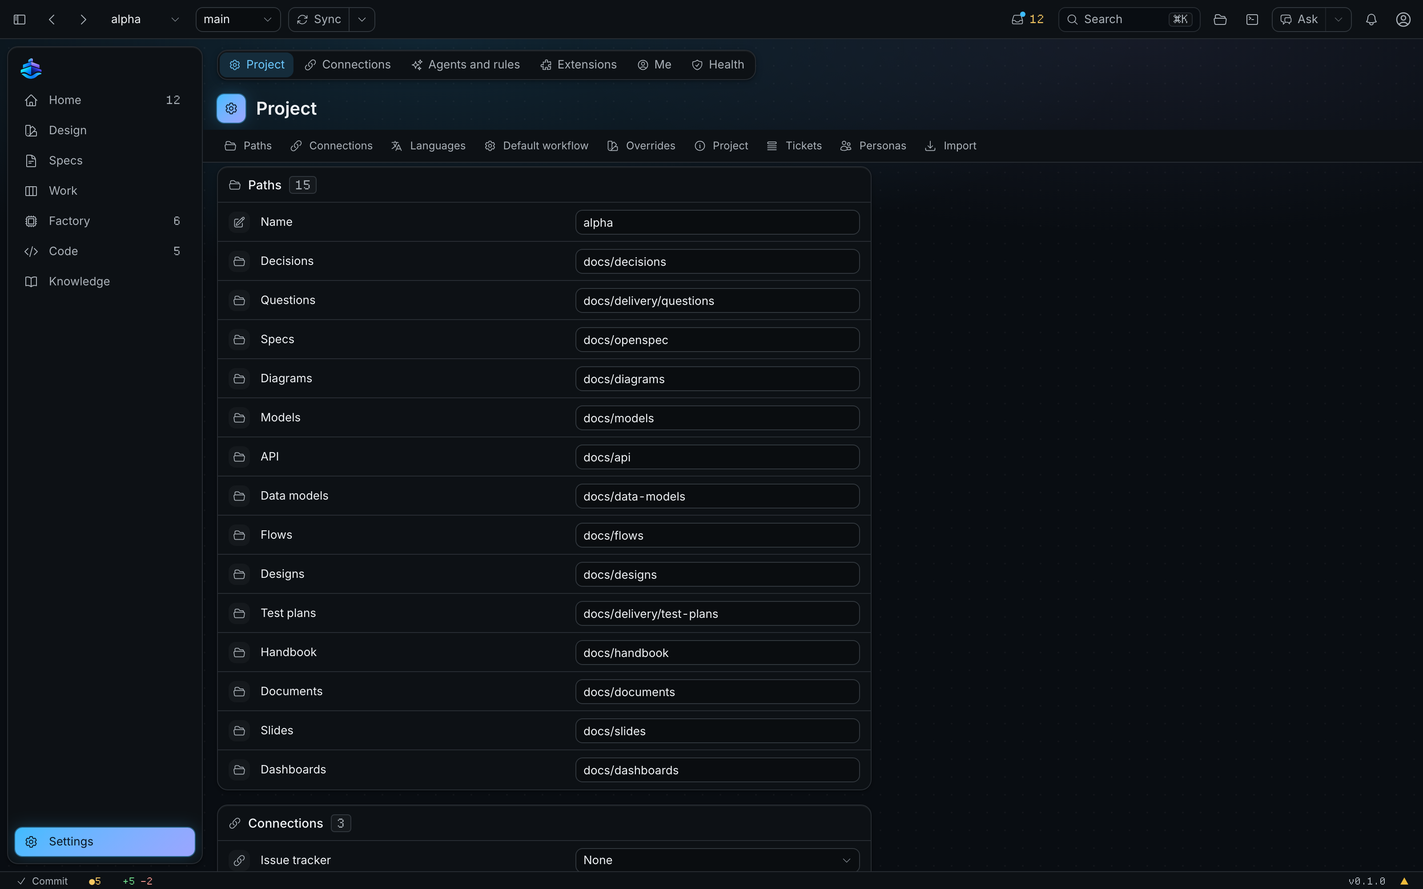
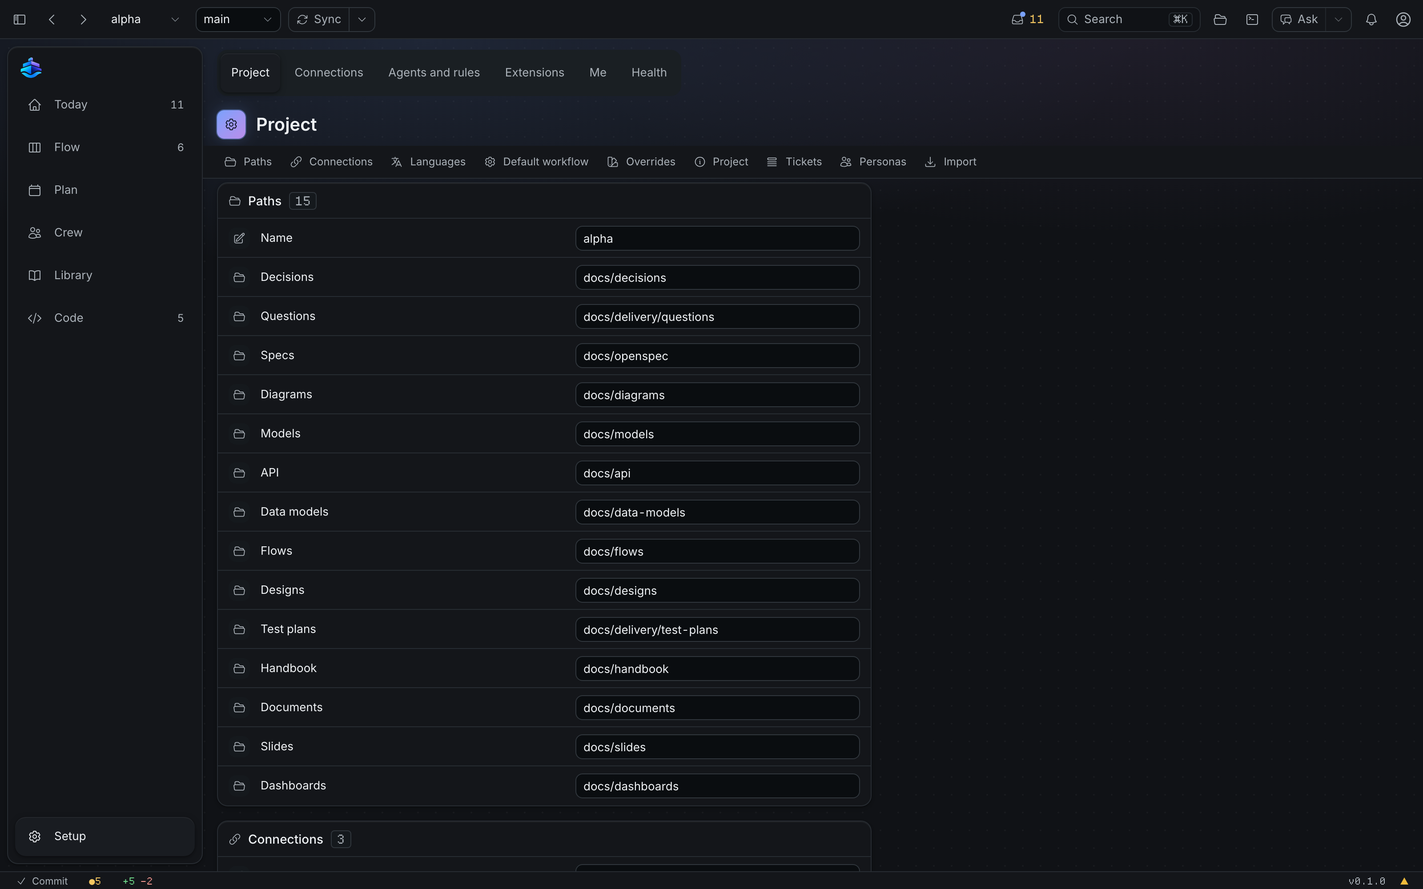
docs(redesign): record wave 1 of the app redesign
Tick T004 to T009, add the changelog lines in English and French, name the
six places in the guide (four languages) and in the architecture model, add
the place menu to the screens registry and regenerate the screenshots with
the new shell. The progress file says what is open and how wave 2 starts.

diff --git a/scripts/screenshots.ts b/scripts/screenshots.ts
@@ -9,9 +9,26 @@ const only = process.argv.slice(2);
 
 const tabs = (p: Page) => p.getByRole("navigation", { name: "Tabs" });
 const side = (p: Page) => p.getByRole("navigation", { name: "Sidebar" });
-const open = async (p: Page, space: string, tab?: string) => {
-	await side(p).getByRole("link", { name: space }).click();
-	if (tab) await tabs(p).getByRole("link", { name: tab, exact: true }).click();
+// The place of each section that a scene opens (adr:0023).
+const PLACE: Record<string, string> = {
+	Projects: "Today",
+	Runs: "Flow",
+	Questions: "Library",
+	Architecture: "Library",
+	Learn: "Library",
+	Plan: "Plan",
+	Team: "Crew",
+	Workflows: "Crew",
+	"Agents map": "Crew",
+	Usage: "Crew",
+	"Pull requests": "Code",
+	Connections: "Setup",
+	Project: "Setup",
+	Me: "Setup",
+};
+const open = async (p: Page, tab: string) => {
+	await side(p).getByRole("link", { name: PLACE[tab] }).click();
+	await tabs(p).getByRole("link", { name: tab, exact: true }).click();
 };
 const openProject = async (p: Page) => {
 	await p.goto("/home/today");
@@ -22,7 +39,7 @@ const openProject = async (p: Page) => {
 
 // Pull request 142 of the mock has comments, two threads and one file of three lines.
 const openPull = async (p: Page, tab?: string) => {
-	await open(p, "Code", "Pull requests");
+	await open(p, "Pull requests");
 	await p.getByRole("link", { name: /refuse an empty token/ }).click();
 	if (tab) await p.getByRole("tab", { name: new RegExp(`^${tab}`) }).click();
 };
@@ -45,22 +62,22 @@ type Scene = { name: string; light?: boolean; run: (p: Page) => Promise<void> };
 const scenes: Scene[] = [
 	{ name: "home", run: async () => {} },
 	{ name: "home-light", light: true, run: async () => {} },
-	{ name: "design", run: (p) => open(p, "Design", "Architecture") },
-	{ name: "specs", run: (p) => open(p, "Specs", "Questions") },
-	{ name: "work", run: (p) => open(p, "Work", "Plan") },
+	{ name: "design", run: (p) => open(p, "Architecture") },
+	{ name: "specs", run: (p) => open(p, "Questions") },
+	{ name: "work", run: (p) => open(p, "Plan") },
 	{
 		name: "team",
 		run: async (p) => {
-			await open(p, "Work", "Team");
+			await open(p, "Team");
 			await p.getByRole("table").first().waitFor();
 		},
 	},
-	{ name: "factory", run: (p) => open(p, "Factory", "Runs") },
-	{ name: "agents", run: (p) => open(p, "Factory", "Agents map") },
+	{ name: "factory", run: (p) => open(p, "Runs") },
+	{ name: "agents", run: (p) => open(p, "Agents map") },
 	{
 		name: "workflows",
 		run: async (p) => {
-			await open(p, "Factory", "Workflows");
+			await open(p, "Workflows");
 			await p.getByRole("button", { name: /^feature/i }).click();
 			await p.getByRole("textbox", { name: "Step id" }).first().waitFor();
 		},
@@ -68,7 +85,7 @@ const scenes: Scene[] = [
 	{
 		name: "runs-history",
 		run: async (p) => {
-			await open(p, "Factory", "Runs");
+			await open(p, "Runs");
 			await p.getByRole("button", { name: "History", exact: true }).click();
 			await p.getByRole("table", { name: "History" }).waitFor();
 		},
@@ -76,14 +93,14 @@ const scenes: Scene[] = [
 	{
 		name: "usage",
 		run: async (p) => {
-			await open(p, "Factory", "Usage");
+			await open(p, "Usage");
 			await p.getByRole("region", { name: "Budgets" }).waitFor();
 		},
 	},
 	{
 		name: "run",
 		run: async (p) => {
-			await open(p, "Factory", "Runs");
+			await open(p, "Runs");
 			await p
 				.getByRole("region", { name: "Working" })
 				.getByRole("button", { name: /ACME-2/ })
@@ -95,7 +112,7 @@ const scenes: Scene[] = [
 	{
 		name: "pulls",
 		run: async (p) => {
-			await open(p, "Code", "Pull requests");
+			await open(p, "Pull requests");
 			await p.getByRole("link", { name: /refuse an empty token/ }).waitFor();
 		},
 	},
@@ -125,13 +142,13 @@ const scenes: Scene[] = [
 			await p.getByRole("dialog", { name: "Submit review" }).waitFor();
 		},
 	},
-	{ name: "knowledge", run: (p) => open(p, "Knowledge", "Learn") },
-	{ name: "settings-connections", run: (p) => open(p, "Settings", "Connections") },
-	{ name: "settings-project", run: (p) => open(p, "Settings", "Project") },
+	{ name: "knowledge", run: (p) => open(p, "Learn") },
+	{ name: "settings-connections", run: (p) => open(p, "Connections") },
+	{ name: "settings-project", run: (p) => open(p, "Project") },
 	{
 		name: "themes",
 		run: async (p) => {
-			await open(p, "Settings", "Me");
+			await open(p, "Me");
 			await p.getByRole("combobox", { name: "Theme" }).click();
 			await p.getByRole("option", { name: "OLED", exact: true }).click();
 		},
@@ -148,7 +165,7 @@ const scenes: Scene[] = [
 	{
 		name: "new-project",
 		run: async (p) => {
-			await open(p, "Home", "Projects");
+			await open(p, "Projects");
 			await p.getByRole("button", { name: "New project" }).click();
 			const d = p.getByRole("dialog", { name: "New project" });
 			await d.getByRole("textbox", { name: "Name" }).fill("Acme Web");
@@ -172,6 +189,13 @@ for (const s of scenes) {
 	});
 	const page = await ctx.newPage();
 	await openProject(page);
+	if (!s.light) {
+		// Light is the default theme: a dark scene picks Dark from the palette.
+		await page.keyboard.press("ControlOrMeta+k");
+		await page.getByRole("dialog").getByRole("combobox").fill("Theme: Dark");
+		await page.keyboard.press("Enter");
+		await page.locator('html[data-theme="dark"]').waitFor();
+	}
 	await s.run(page);
 	await page.mouse.move(800, 990); // no hover state
 	await page.waitForTimeout(800); // fades and charts settle

diff --git a/.agents/progress/app-redesign.md b/.agents/progress/app-redesign.md
@@ -1,0 +1,46 @@
+# Progress: update-app-redesign
+
+Change: `docs/openspec/changes/update-app-redesign/`. Decision: `adr:0023`. One session per wave.
+
+## Wave 1, foundation (2026-11-16): T004 to T009 done
+
+Branch `feature/app-redesign-wave-1-d9708f`, local commits only. Not pushed, no pull request.
+
+What the wave did:
+
+- T005, T006: `crates/shipyard-core/src/feature.rs` has `stage_of` (the sixteen run states to a stage and a mark) and `features` (ticket, spec change, newest run and its pull request as one `FlowFeature`). The command `features_list` is in `crates/shipyard-app/src/factory.rs`. The mock is `src/lib/ipc/mock-features.ts`. No page reads the command yet.
+- T007: tokens of the new look in `src/ui/tokens/tokens.css`: one blue accent, the tokens `--attention*` (only `attention-card.tsx` can use them, a test checks it), `--control-h` 44 px with the class `min-h-control`. Light is the theme when no theme is stored. A stored theme stays, System included.
+- T008: `src/ui/molecules/`: `place-menu`, `ask-bar`, `stage-line`, `attention-card`, `section-switch`, `door`. The value row is `SettingsRow`. Each has a gallery entry.
+- T009: `src/features/shell/places.ts` holds the seven places. Each section is one old view `space/tab`, and its slug is the old tab id. The new addresses are `/<place>/<section>`, `/flow/runs/$runId` and `/code/pull-requests/$pullId`. Each old address stays registered in `src/app/router.tsx` and redirects with its search and its hash. A bare old space opens its own first view (`/factory` opens `/flow/runs`). The sidebar draws the place menu, one section switch replaces the tab bar, and the native Go menu holds the seven places.
+- T004: `src/features/shell/inventory.test.tsx` loads each old address and checks that a real page opens and that each action id runs.
+
+Decisions of this wave (change them in one place):
+
+- Stage map: Queued, Claimed, Planning and PlanReview are Spec. Working and SelfReview are Build. PROpen and ChangesRequested are Review. Merged and Done are Ready. Failed and Cancelled are Build with the mark stopped. A side state takes the stage of its return state. The map is one `match` in `feature.rs` and `SPLIT` in `mock-features.ts`.
+- An older run of a ticket and its pull request do not show as a feature.
+- The names of the places in French, German and Spanish are the defaults of `q:Q-172`.
+- The old action ids `go-<space>` stay, hidden from the palette. A stored shortcut for one still runs it.
+
+Checks, run by the lead on the final tree:
+
+- Passed: `cargo fmt --all --check`, `cargo clippy --workspace --all-targets -- -D warnings`, `cargo test --workspace --no-fail-fast` (app library 504), `pnpm typecheck`, `pnpm lint`, `pnpm test` (248 files, 2014 tests), `pnpm ipc:check`, `openspec validate update-app-redesign --strict`, `CI=1 npx playwright test` (130), `pnpm test:personas`.
+- Review in a fresh context: 2 major and 4 minor findings, all fixed. The lead also found that the dark accessibility run scanned Light after the new default: `e2e/first-run.ts` now picks Dark from the palette.
+
+Open after Wave 1:
+
+- The typed links in the feature folders still name the old addresses (about 850 uses). They work through the redirect. Each wave rewrites the links of its pages.
+- The Button, Input and IconButton atoms are 28 px high. A page of the new look must pass `min-h-control` until the atoms get a 44 px size (REQ-026).
+- `FlowFeature` has no field for who works on the feature (REQ-011). Add it in Wave 3.
+- The `wi:` ref of a proposal is read only in the Jira key form. A ticket of another issue tracker links to its change through the mirror only.
+- `role-panels.tsx` and `onboarding/pictures.tsx` still show the names of the old spaces. `orderedSpaces`, `visibleTabs` and `barTabs` in `spaces.ts` serve only the redirects and the tests: T028 and T030 remove them.
+- Home / Projects is a section of Today for now. The plan puts it behind the project name (T027).
+- The guide has the new menu in `start.md` only (four languages). The pages by old space are for T032.
+- `q:Q-172` is open: the owner can change the French, German and Spanish names in `src/lib/i18n/` (`ui.place`).
+- No old page was removed: Wave 1 replaced the shell only (the tab bar file is gone).
+
+## How Wave 2 starts (T010 to T012, Today and Ask)
+
+1. Read this file, `tasks.md`, `plan.md`, REQ-004, REQ-005, REQ-007, REQ-008 and REQ-009 of the spec, and the Today and Ask screens in `docs/designs/redesign/`.
+2. Build Today in `src/features/home/` with `AttentionCard`, and the Ask bar in the top bar with `AskBar`. The section `today/today` already hosts the page of today.
+3. Keep `inventory.test.tsx` green. Remove an old page only when the wave replaced it.
+4. End with the review in a fresh context, the screens registry, the screenshots (`node scripts/screenshots.ts`), the guide, both changelogs and one entry here.

diff --git a/docs/guide/de/start.md b/docs/guide/de/start.md
@@ -4,8 +4,8 @@ Shipyard hilft einem Team, ein Softwareprojekt auszuliefern: den Entwurf, die Sp
 
 ## Das Fenster
 
-- Die linke Leiste enthält die Bereiche: Start, Entwurf, Spezifikationen, Arbeit, Fabrik, Code, Wissen und Einstellungen.
-- Die Tabs eines Bereichs stehen oben auf der Seite. Jeder Tab hat ein Symbol und seinen Namen.
+- Die linke Leiste enthält die sechs Orte und Einrichtung: Heute, Ablauf, Plan, Team, Bibliothek, Code und Einrichtung. Jede frühere Seite liegt in einem Ort, und ihre alte Adresse öffnet sie weiterhin.
+- Die Abschnitte eines Ortes stehen oben auf der Seite, in einem Umschalter.
 - Der Inspektor rechts zeigt das Element, das Sie auswählen.
 - Die Statusleiste unten zeigt das Projekt, den Sync-Status und die Commit-Steuerung, mit der Zahl der geänderten Dateien neben Commit.
 - Die obere Leiste enthält Zurück und Vorwärts, Synchronisieren, Aktivität, die Suche, die Schaltflächen Dateien und Terminal, Fragen, die Benachrichtigungen und das Kontomenü.
@@ -64,7 +64,7 @@ In Start, dann Heute, nennt eine einzige Liste Erste Schritte die nächsten Schr
 - Drücken Sie Ctrl+K (Cmd+K auf einem Mac), um die Palette zu öffnen. Tippen Sie den Namen einer Seite, eines Elements oder einer Aktion.
 - Tippen Sie in der Palette ein paar Wörter, um den Text Ihrer Dokumente, Entscheidungen, Spezifikationen, Fragen, Tickets und Entwürfe zu durchsuchen. Groß- und Kleinschreibung und Akzente spielen keine Rolle („decision“ findet „décision“), jedes Wort muss passen, und das letzte Wort darf ein Anfang sein. Die Ergebnisse sind nach Art gruppiert, zeigen einen kurzen Auszug mit markierten Wörtern und stellen eine Seite, die viele Elemente zitieren, an die erste Stelle. Wählen Sie Den Assistenten fragen, um diese Elemente als Kontext in das Nachrichtenfeld des Assistenten zu legen. Nichts wird gesendet, bevor Sie senden. Das Dokument, das Sie aus einem Ergebnis öffnen, markiert die Wörter.
 - Die Listen in Entwurf und Wissen haben ein Feld Suchen, das die Liste mit derselben Suche filtert.
-- Drücken Sie Ctrl+1 bis Ctrl+8, um zu einem Bereich zu gehen.
+- Drücken Sie Ctrl+1 bis Ctrl+7, um zu einem Ort zu gehen.
 - Öffnen Sie die Palette und wählen Sie Anleitung zu dieser Seite öffnen, um die Hilfe der Seite zu lesen, die Sie sehen.
 - Drücken Sie Ctrl+[ und Ctrl+] (Cmd auf einem Mac), oder klicken Sie in der oberen Leiste auf Zurück und Vorwärts, um zwischen den geöffneten Ansichten zu wechseln.
 - Drücken Sie F1, oder wählen Sie Anleitung im Kontomenü, um die Hilfe der Seite zu lesen, die Sie sehen.

diff --git a/docs/guide/fr/start.md b/docs/guide/fr/start.md
@@ -4,8 +4,8 @@ Shipyard aide une équipe à livrer un projet logiciel : la conception, les spé
 
 ## La fenêtre
 
-- La barre de gauche contient les espaces : Accueil, Conception, Spécifications, Travail, Usine, Code, Connaissances et Réglages.
-- Les onglets d'un espace sont en haut de la page. Chaque onglet a une icône et son nom.
+- La barre de gauche contient les six lieux et Configuration : Aujourd'hui, Flux, Plan, Équipe, Bibliothèque, Code et Configuration. Chaque page d'avant se trouve dans un lieu, et son ancienne adresse l'ouvre toujours.
+- Les sections d'un lieu sont en haut de la page, dans un seul sélecteur.
 - L'inspecteur à droite montre l'élément que vous sélectionnez.
 - La barre d'état en bas montre le projet, l'état de la synchronisation et la commande de commit, avec le nombre de fichiers modifiés à côté de Commit.
 - La barre du haut contient Précédent et Suivant, Synchroniser, Activité, la recherche, les boutons Fichiers et Terminal, Demander, les notifications et le menu du compte.
@@ -77,7 +77,7 @@ Créer fait le dépôt, écrit les fichiers, fait le premier commit et ouvre le 
 - Appuyez sur Ctrl+K (Cmd+K sur Mac) pour ouvrir la palette. Tapez le nom d'une page, d'un élément ou d'une action.
 - Dans la palette, tapez quelques mots pour chercher dans le texte de vos documents, décisions, spécifications, questions, tickets et maquettes. Les majuscules et les accents ne comptent pas (« decision » trouve « décision »), chaque mot doit correspondre, et le dernier mot peut être un début. Les résultats se groupent par type, montrent un court extrait avec les mots marqués, et placent en premier une page que beaucoup d'éléments citent. Choisissez Demander à l'assistant pour mettre ces éléments comme contexte dans la zone de message de l'assistant. Rien n'est envoyé avant votre envoi. Le document que vous ouvrez depuis un résultat marque les mots.
 - Les listes de Design et de Connaissances ont une zone Rechercher qui filtre la liste avec la même recherche.
-- Appuyez sur Ctrl+1 à Ctrl+8 pour aller dans un espace.
+- Appuyez sur Ctrl+1 à Ctrl+7 pour aller dans un lieu.
 - Ouvrez la palette et choisissez Ouvrir le mode d'emploi de cette page pour lire l'aide de la page que vous voyez.
 - Appuyez sur Ctrl+[ et Ctrl+] (Cmd sur Mac), ou cliquez sur Précédent et Suivant dans la barre du haut, pour passer d'une vue ouverte à l'autre.
 - Appuyez sur F1, ou choisissez Mode d'emploi dans le menu du compte, pour lire l'aide de la page que vous voyez.

diff --git a/docs/guide/es/start.md b/docs/guide/es/start.md
@@ -4,8 +4,8 @@ Shipyard ayuda a un equipo a entregar un proyecto de software: el diseño, las e
 
 ## La ventana
 
-- La barra izquierda contiene los espacios: Inicio, Diseño, Especificaciones, Trabajo, Fábrica, Código, Conocimiento y Ajustes.
-- Las pestañas de un espacio están arriba en la página. Cada pestaña tiene un icono y su nombre.
+- La barra izquierda contiene los seis lugares y Configuración: Hoy, Flujo, Plan, Equipo, Biblioteca, Código y Configuración. Cada página de antes está en un lugar, y su dirección anterior la abre todavía.
+- Las secciones de un lugar están arriba en la página, en un solo selector.
 - El inspector de la derecha muestra el elemento que seleccionas.
 - La barra de estado de abajo muestra el proyecto, el estado de la sincronización y el control de commit, con el número de archivos modificados junto a Commit.
 - La barra superior contiene Atrás y Adelante, Sincronizar, Actividad, la búsqueda, los botones Archivos y Terminal, Preguntar, las notificaciones y el menú de la cuenta.
@@ -64,7 +64,7 @@ En Inicio, luego Hoy, una sola lista Empezar da los pasos siguientes en orden: p
 - Pulsa Ctrl+K (Cmd+K en un Mac) para abrir la paleta. Escribe el nombre de una página, de un elemento o de una acción.
 - En la paleta, escribe unas palabras para buscar en el texto de tus documentos, decisiones, especificaciones, preguntas, tickets y diseños. Las mayúsculas y los acentos no importan («decision» encuentra «décision»), cada palabra debe coincidir, y la última palabra puede ser un comienzo. Los resultados se agrupan por tipo, muestran un extracto corto con las palabras marcadas y ponen primero una página que citan muchos elementos. Elige Preguntar al asistente para poner esos elementos como contexto en el cuadro de mensaje del asistente. No se envía nada hasta que lo envíes. El documento que abres desde un resultado marca las palabras.
 - Las listas de Diseño y Conocimiento tienen un cuadro Buscar que filtra la lista con la misma búsqueda.
-- Pulsa Ctrl+1 a Ctrl+8 para ir a un espacio.
+- Pulsa Ctrl+1 a Ctrl+7 para ir a un lugar.
 - Abre la paleta y elige Abrir el manual de esta página para leer la ayuda de la página que ves.
 - Pulsa Ctrl+[ y Ctrl+] (Cmd en un Mac), o haz clic en Atrás y Adelante en la barra superior, para moverte entre las vistas que abriste.
 - Pulsa F1, o elige Manual en el menú de la cuenta, para leer la ayuda de la página que ves.

diff --git a/docs/openspec/changes/update-app-redesign/specs/app-redesign/tasks.md b/docs/openspec/changes/update-app-redesign/specs/app-redesign/tasks.md
@@ -20,12 +20,12 @@ Wave 0, decisions
 
 Wave 1, foundation
 
-- [ ] T004 [P] Extend the inventory test with each route and each palette action of today (`src/features/shell/inventory.test.tsx`). REQ-003.
-- [ ] T005 [P] Unit tests, then the map from each run state to a stage and a mark in `crates/shipyard-core/`. REQ-010.
-- [ ] T006 Unit tests, then the feature read model that joins ticket, spec change, run and pull request in `crates/shipyard-core/`; one read command in `crates/shipyard-app/`; update `src/lib/ipc/mock*.ts`. REQ-012.
-- [ ] T007 [P] Tokens of the new look in `src/ui/tokens/` for Light, Dark, OLED and System; the attention colour as one token; Light as the default for a person with no chosen theme, a chosen theme kept (`q:Q-168`). REQ-025.
-- [ ] T008 [P] Shared components with gallery entries in `src/ui/`: place menu, Ask bar, stage line, attention card, section switch, door, value row. Each is 44 px high or more. REQ-026, REQ-028.
-- [ ] T009 New shell with the six places and Setup, on main with no switch (`q:Q-171`); redirects for each old address in `src/app/router.tsx`. REQ-001, REQ-002, REQ-029.
+- [x] T004 [P] Extend the inventory test with each route and each palette action of today (`src/features/shell/inventory.test.tsx`). REQ-003.
+- [x] T005 [P] Unit tests, then the map from each run state to a stage and a mark in `crates/shipyard-core/`. REQ-010.
+- [x] T006 Unit tests, then the feature read model that joins ticket, spec change, run and pull request in `crates/shipyard-core/`; one read command in `crates/shipyard-app/`; update `src/lib/ipc/mock*.ts`. REQ-012.
+- [x] T007 [P] Tokens of the new look in `src/ui/tokens/` for Light, Dark, OLED and System; the attention colour as one token; Light as the default for a person with no chosen theme, a chosen theme kept (`q:Q-168`). REQ-025.
+- [x] T008 [P] Shared components with gallery entries in `src/ui/`: place menu, Ask bar, stage line, attention card, section switch, door, value row. Each is 44 px high or more. REQ-026, REQ-028.
+- [x] T009 New shell with the six places and Setup, on main with no switch (`q:Q-171`); redirects for each old address in `src/app/router.tsx`. REQ-001, REQ-002, REQ-029.
 
 Wave 2, Today and Ask
 

diff --git a/docs/guide/start.md b/docs/guide/start.md
@@ -4,8 +4,8 @@ Shipyard helps a team deliver a software project: the design, the specs, the wor
 
 ## The window
 
-- The left bar holds the spaces: Home, Design, Specs, Work, Factory, Code, Knowledge and Settings.
-- The tabs of a space sit at the top of the page. Each tab has an icon and its name.
+- The left bar holds the six places and Setup: Today, Flow, Plan, Crew, Library, Code and Setup. Each page of before sits in one place, and its old address still opens it.
+- The sections of a place sit at the top of the page, in one switch.
 - The inspector on the right shows the item that you select.
 - The status bar at the bottom shows the project, the sync state and the commit control, with the count of changed files beside Commit.
 - The top bar holds Back and Forward, Sync, Activity, the search, the Files and Terminal buttons, Ask, the notifications and the account menu.
@@ -81,7 +81,7 @@ Create makes the repository, writes the files, makes the first commit and opens 
 - Press Ctrl+K (Cmd+K on a Mac) to open the palette. Type the name of a page, an item or an action.
 - In the palette, type a few words to search the text of your documents, decisions, specs, questions, tickets and designs. Case and accents do not matter ("decision" finds "décision"), every word must match, and the last word can be a start. Results group by kind, show a short extract with the words marked, and put a page that many items cite first. Choose Ask the assistant to put those items as context in the message box of the assistant. Nothing is sent until you send it. The document that you open from a result marks the words.
 - Design and Knowledge lists have a Search box that filters the list with the same search.
-- Press Ctrl+1 to Ctrl+8 to go to a space.
+- Press Ctrl+1 to Ctrl+7 to go to a place.
 - Open the palette and choose Open the manual for this page to read the help of the page that you see.
 - Press Ctrl+[ and Ctrl+] (Cmd on a Mac), or click Back and Forward in the top bar, to move between the views that you opened.
 - Press F1, or choose Manual in the account menu, to read the help of the page that you see.

diff --git a/CHANGELOG.fr.md b/CHANGELOG.fr.md
@@ -1,6 +1,8 @@
 # Journal des modifications
 
 ## [0.2.0]
+- La barre de gauche contient six lieux et Configuration (Aujourd'hui, Flux, Plan, Équipe, Bibliothèque, Code, Configuration) à la place des huit espaces, et un seul sélecteur en haut de la page contient les sections du lieu ; chaque page d'avant se trouve dans un lieu, son ancienne adresse l'ouvre toujours, Ctrl+1 à Ctrl+7 mènent à un lieu, et le menu Aller et la palette de commandes utilisent les mêmes noms.
+- L'apparence est plus calme : un fond gris avec des cartes blanches en Clair, un seul bleu d'accent, un orange réservé à ce qui attend une personne, et Clair est le thème d'une personne qui n'en a jamais choisi (un thème choisi, Système compris, reste).
 - Connaissance / Graphe / Code s’ouvre comme une carte de dossiers, avec des lignes plus épaisses là où plus d’appels passent entre leurs fichiers, au lieu d’une liste plate de 300 symboles : sélectionnez un dossier pour voir ses fichiers, et un fichier pour voir ses symboles avec ce qui les appelle et ce qu’ils appellent ; Tout afficher revient à la carte.
 - Code / Historique montre la photo de profil de l'auteur de chaque commit, celle de GitHub pour une adresse no-reply de GitHub et celle de Gravatar pour toute autre adresse (les initiales s'il n'y en a pas). Seule une empreinte de l'adresse part vers Gravatar.
 - Connaissance / Graphe / Code montre le graphe après Indexer : il lit l'index aussi quand le serveur de code est arrêté (il ne tourne que le temps de la lecture), et il retrouve l'index d'un dossier dont le chemin contient un lien ou une espace.

diff --git a/CHANGELOG.md b/CHANGELOG.md
@@ -1,6 +1,8 @@
 # Changelog
 
 ## [0.2.0]
+- The left bar holds six places and Setup (Today, Flow, Plan, Crew, Library, Code, Setup) in place of the eight spaces, and one switch at the top of the page holds the sections of the place; every page of before sits in one place, its old address still opens it, Ctrl+1 to Ctrl+7 go to a place, and the Go menu and the command palette use the same names.
+- The look is calmer: a grey ground with white cards in Light, one blue accent, one orange kept for what needs a person, and Light is the theme of a person who never chose one (a chosen theme, System included, stays).
 - Knowledge / Graph / Code opens as a map of folders, with thicker lines where more calls go between their files, instead of a flat list of 300 symbols: select a folder to see its files, and a file to see its symbols with what calls them and what they call; Show all returns to the map.
 - Code / History shows the profile picture of each commit author, from GitHub for a GitHub no-reply address and from Gravatar for any other address (the initials when there is none). Only a hash of the address goes to Gravatar.
 - Knowledge / Graph / Code shows the graph after Index: it reads the index also when the code server is off (it runs for that read only), and it finds the index of a folder with a link or a space in its path.
